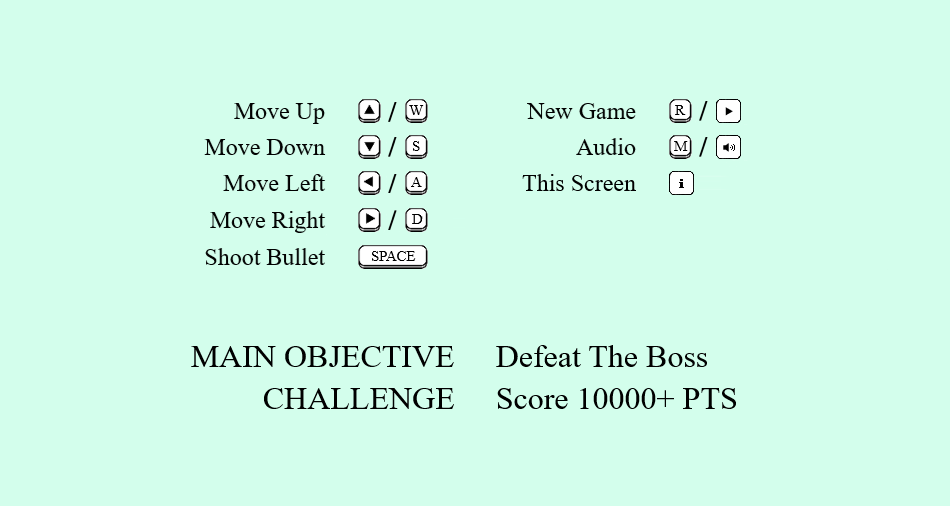
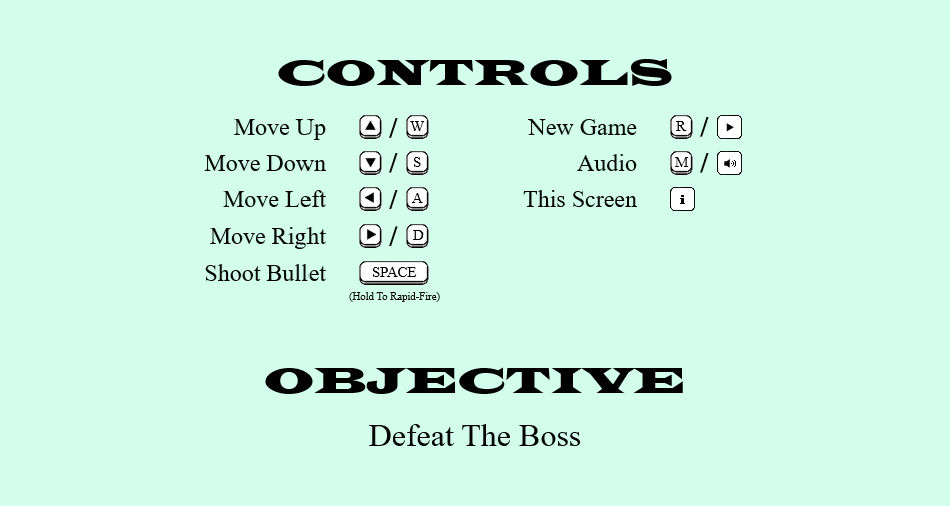
Tweak difficulty, update visuals/text

diff --git a/script.js b/script.js
@@ -111,10 +111,10 @@ class Player {
 		this.fireRate = this.fireRateInitial;
 
 		//Number of bullets that can be fired in succession before having to reload
-		this.magazineInitial = 16;
+		this.magazineInitial = 15;
 		this.magazine = this.magazineInitial;
 
-		this.reloadTimerInitial = 300;
+		this.reloadTimerInitial = 225;
 		this.reloadTimer = this.reloadTimerInitial;
 		this.score = 0;
 		this.deathCause = '';
@@ -227,7 +227,7 @@ class Player {
 			brush.globalAlpha = this.pointerHUDOpacity.toFixed(3);
 			brush.textAlign = 'center';
 			brush.fillStyle = 'black';
-			brush.font = 'bold 35px Times New Roman';
+			brush.font = 'bold 40px Times New Roman';
 			brush.fillText('⬆ PROGRESS TO THE BOSS', canvas.width * 0.5, canvas.height * 0.12);
 
 			//Two cases for this pointer since pointer would be cut-off if player was near bottom of canvas window
@@ -256,10 +256,10 @@ class Player {
 		brush.font = '22px Times New Roman';
 		if (this.y >= canvas.height - this.spriteHeight * 1.5) {
 			if (this.magazine > 0) brush.fillText(this.magazine + ' / ∞', this.x + this.spriteWidth * 0.45, this.y - this.spriteHeight * 0.15);
-			else brush.fillText('⟲ / ∞', this.x + this.spriteWidth * 0.45, this.y - this.spriteHeight * 0.15);
+			else brush.fillText('🔄 / ∞', this.x + this.spriteWidth * 0.45, this.y - this.spriteHeight * 0.15);
 		} else {
 			if (this.magazine > 0) brush.fillText(this.magazine + ' / ∞', this.x + this.spriteWidth * 0.45, this.y + this.spriteHeight * 1.4);
-			else brush.fillText('⟲ / ∞', this.x + this.spriteWidth * 0.45, this.y + this.spriteHeight * 1.4);
+			else brush.fillText('🔄 / ∞', this.x + this.spriteWidth * 0.45, this.y + this.spriteHeight * 1.4);
 		}
 
 		//Draw player's score
@@ -329,12 +329,12 @@ class Boss {
 		this.spriteHeight = 300;
 		this.spriteSpeedInitial = 14;
 		this.spriteSpeed = this.spriteSpeedInitial;
-		this.healthInitial = 60;
+		this.healthInitial = 39;
 		this.health = this.healthInitial;
 		this.healthBarOpacity = 0;
 
 		//Value stopwatch must reach before first phase of boss battle begins
-		this.phase1Start = 1980;
+		this.phase1Start = 1380;
 
 		//Values player must get boss's health down to before next phase of boss battle begins
 		this.phase2Start = this.healthInitial * (2 / 3);
@@ -438,7 +438,7 @@ class Boss {
 
 				//Draw points added to player's score if boss has fallen out of canvas window and none of boss's bullets are in canvas window
 				if (this.y > canvas.height && bossBulletsArray.length == 0 && !this.deathAddPointsSwitch) {
-					CreateAddPoints(this.x + this.spriteWidth * 0.1, canvas.height * 0.96, 2000, 1);
+					CreateAddPoints(this.x + this.spriteWidth * 0.1, canvas.height * 0.96, 3000, 1);
 
 					//Prevent infinite drawing of points added
 					this.deathAddPointsSwitch = true;
@@ -535,9 +535,9 @@ class CompBird {
 
 		this.spriteWidth = 75;
 		this.spriteHeight = 50;
-		this.spriteSpeedInitial = GetRandomNumber(4, 7);
+		this.spriteSpeedInitial = GetRandomNumber(2, 4);
 		this.spriteSpeed = this.spriteSpeedInitial;
-		this.healthInitial = 4;
+		this.healthInitial = 3;
 		this.health = this.healthInitial;
 		this.hitAudio = document.getElementById('compBirdHitAudio');
 		this.cryAudio = document.getElementById('compBirdCryAudio');
@@ -555,9 +555,8 @@ class CompBird {
 
 		//Draw different version of CPU controlled bird for each bullet it absorbs from player
 		if (this.health == this.healthInitial) brush.drawImage(this.imagePhase1, this.spriteX, 0, this.spriteWidth, this.spriteHeight, this.x, this.y, this.spriteWidth, this.spriteHeight);
-		else if (this.health >= this.healthInitial * (3 / 4)) brush.drawImage(this.imagePhase2, this.spriteX, 0, this.spriteWidth, this.spriteHeight, this.x, this.y, this.spriteWidth, this.spriteHeight);
-		else if (this.health >= this.healthInitial * (1 / 2)) brush.drawImage(this.imagePhase3, this.spriteX, 0, this.spriteWidth, this.spriteHeight, this.x, this.y, this.spriteWidth, this.spriteHeight);
-		else brush.drawImage(this.imagePhase4, this.spriteX, 0, this.spriteWidth, this.spriteHeight, this.x, this.y, this.spriteWidth, this.spriteHeight);
+		else if (this.health >= this.healthInitial * (1 / 2)) brush.drawImage(this.imagePhase2, this.spriteX, 0, this.spriteWidth, this.spriteHeight, this.x, this.y, this.spriteWidth, this.spriteHeight);
+		else brush.drawImage(this.imagePhase3, this.spriteX, 0, this.spriteWidth, this.spriteHeight, this.x, this.y, this.spriteWidth, this.spriteHeight);
 
 		SpriteUpdater(this, this.imagePhase1.width);
 	}
@@ -965,10 +964,10 @@ function CreateBossBullet(x, y, dX, dY, createMultiples, symbolType, creationFre
 							if (i == -0.6) bossBullet.PlayCloseFireAudio();
 						}
 					} else {
-						for (let i = -5; i <= 5; i++) {
+						for (let i = -3; i <= 3; i++) {
 							let bossBullet = new BossBullet1(x, y, GetRandomNumber(-3, -1), i);
 							bossBulletsArray.push(bossBullet);
-							if (i == -5) bossBullet.PlayCloseFireAudio();
+							if (i == -3) bossBullet.PlayCloseFireAudio();
 						}
 					}
 					break;
@@ -986,7 +985,7 @@ function CreateCompBird() {
 		compBird.PlayCryAudio();
 
 		//Randomize timer for creation of next bird
-		createCompBirdInterval = GetRandomNumber(45, 90);
+		createCompBirdInterval = GetRandomNumber(60, 100);
 	} else createCompBirdInterval--;
 }
 
@@ -1212,7 +1211,7 @@ function LevelTracker() {
 	if (boss.health < boss.phase3Start) currentLevel = 5;
 	else if (boss.health < boss.phase2Start) currentLevel = 4;
 	else if (stopWatch >= boss.phase1Start) currentLevel = 3;
-	else if (stopWatch >= 1020) currentLevel = 2;
+	else if (stopWatch >= 650) currentLevel = 2;
 	else currentLevel = 1;
 }
 
@@ -1220,7 +1219,7 @@ function LevelTracker() {
 function LevelMaker() {
 	switch (currentLevel) {
 		case 1:
-			if (stopWatch == 880) boss.PlayDistantCryAudio();
+			if (stopWatch == 600) boss.PlayDistantCryAudio();
 			if (stopWatch > 280) CreateCompBird();
 			CanvasBackground();
 			player.Draw();
@@ -1234,7 +1233,7 @@ function LevelMaker() {
 			break;
 		case 2:
 			CreateCompBird();
-			CreateBossBullet(canvas.width + 100, GetRandomNumber(60, canvas.height - 60), -8, 0, false, 2, GetRandomNumber(90, 140));
+			CreateBossBullet(canvas.width + 100, GetRandomNumber(60, canvas.height - 60), -8, 0, false, 2, GetRandomNumber(110, 150));
 			CanvasBackground();
 			player.Draw();
 			DisplayBlood();
@@ -1248,7 +1247,7 @@ function LevelMaker() {
 			break;
 		case 3:
 			if (stopWatch == boss.phase1Start) boss.PlayCloseCryAudio();
-			if (stopWatch > boss.phase1Start + 240) CreateBossBullet(boss.x + 100, boss.y + 150, -8, GetRandomNumber(-3.5, 3.5), false, 2, GetRandomNumber(90, 140));
+			if (stopWatch > boss.phase1Start + 220) CreateBossBullet(boss.x + 100, boss.y + 150, -6, GetRandomNumber(-3.5, 3.5), false, 2, GetRandomNumber(110, 150));
 			CanvasBackground();
 			player.Draw();
 			DisplayBlood();
@@ -1264,7 +1263,7 @@ function LevelMaker() {
 			stopWatch++;
 			break;
 		case 4:
-			CreateBossBullet(boss.x + 120, boss.y + 160, null, null, true, null, 140);
+			CreateBossBullet(boss.x + 120, boss.y + 160, null, null, true, null, 180);
 			CanvasBackground();
 			player.Draw();
 			DisplayBlood();
@@ -1278,13 +1277,13 @@ function LevelMaker() {
 			boss.PlayPhase2Audio();
 			break;
 		case 5:
-			if (player.x > 0 && boss.deathAnimationTimer == boss.deathAnimationTimerInitial) player.x -= 3.6;
+			if (player.x > 0 && boss.deathAnimationTimer == boss.deathAnimationTimerInitial) player.x -= 3;
 			for (let i = 0; i < bossBulletsArray.length - 1; i++) {
 				bossBulletsArray[i].dX -= 0.01;
 				if (bossBulletsArray[i].dY > 0 && bossBulletsArray[i].dY != 0) bossBulletsArray[i].dY -= 0.01;
 				else if (bossBulletsArray[i].dY < 0 && bossBulletsArray[i].dY != 0) bossBulletsArray[i].dY += 0.01;
 			}
-			CreateBossBullet(-canvas.height - canvas.height * (1 / 2), canvas.height / 2, 0.825, 0, false, 5, 1200);
+			CreateBossBullet(-canvas.height - canvas.height * (1 / 2), canvas.height / 2, 1.5, 0, false, 5, 1200);
 			CanvasBackground();
 			player.Draw();
 			DisplayBlood();

diff --git a/index.html b/index.html
@@ -46,7 +46,7 @@
 					<script src="script.js"></script>
 				</div>
 				<div id="credits">
-					<label for="expand">Show / Hide Credits</label>
+					<label for="expand">Show / Hide Acknowledgements</label>
 					<input type="checkbox" id="expand" />
 					<div id="info">
 						<ul>
@@ -115,7 +115,7 @@
 			</div>
 			<div id="mobile">
 				<h1>😞</h1>
-				<h2>Sorry, this game cannot be played on this screen size.</h2>
+				<h2>Sorry, this game was not designed to be playable on your screen size.</h2>
 				<h1><a href="https://github.com/dgee02/browser-game">GitHub Repo</a></h1>
 			</div>
 		</main>

diff --git a/style.css b/style.css
@@ -107,9 +107,13 @@ button {
 
 button:hover {
 	border: 2px solid rgb(236, 28, 36);
-	background-color: rgb(251, 205, 205);
+	background-color: rgb(255, 187, 187);
 	box-shadow: 0px 1px 3px rgba(0, 0, 0, 0.05) inset, 0px 0px 8px rgb(0, 0, 0);
 	transition: all 0.2s;
+}
+
+button:active {
+	box-shadow: 0px 0px 8px rgba(0, 0, 0, 0.5) inset, 0px 0px 0px rgb(0, 0, 0);
 }
 
 #buttons {

diff --git a/README.md b/README.md
@@ -4,9 +4,9 @@ A side-scrolling browser game made with JavaScript, HTML, and CSS.
 
 You play as a bird that can fire bullets. Win the game by defeating the boss.
 
-[Play it here.](https://dgee02.github.io/browser-game/)
+Check it out [here](https://dgee02.github.io/browser-game/).
 
-## Credits
+## Acknowledgements
 
 - [flying clipart icon 1132460](https://webstockreview.net/image/cookout-clipart-vector/1132460.html) by webstockreview.net, used under [CC BY 3.0](https://creativecommons.org/licenses/by/3.0/) / Changed design for styling and visual effects
 - [Bir Poop Splat](https://soundbible.com/1079-Bir-Poop-Splat.html) by Mike Koenig, used under [CC BY 3.0](https://creativecommons.org/licenses/by/3.0/) / Changed length, pitch, speed, and volume for audio effect
